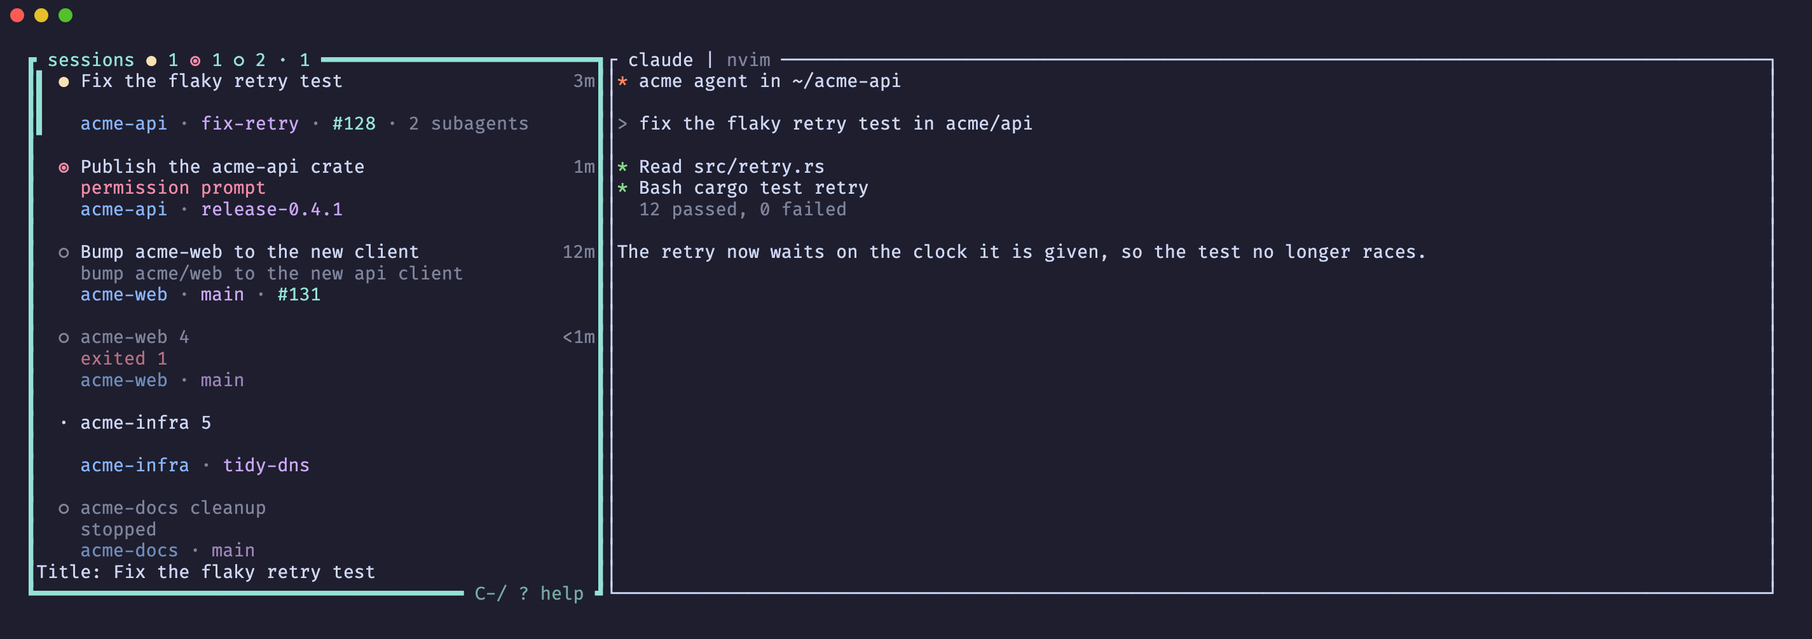
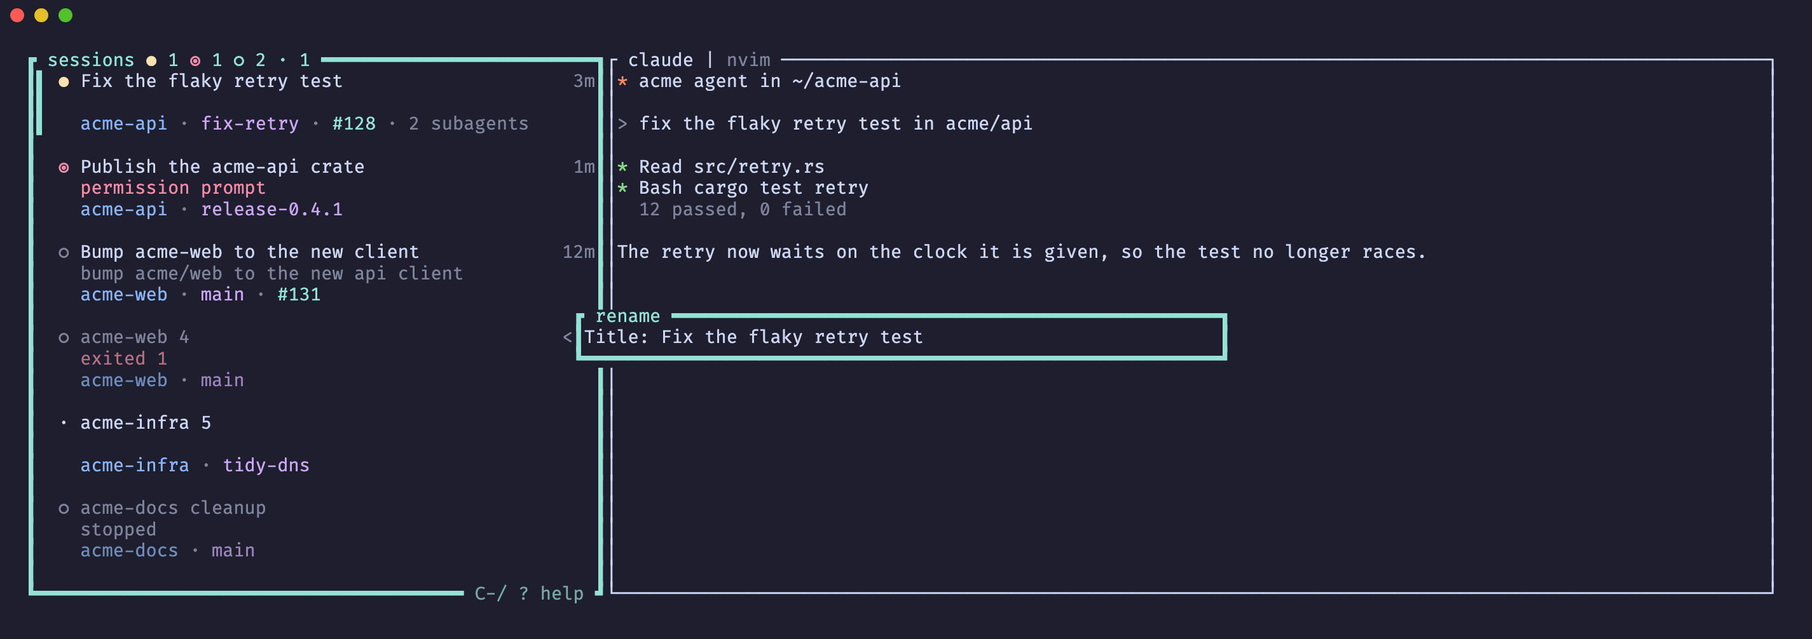
The rename input opens in a popup in the middle of the screen

Changed region(s): [[0.3123, 0.493, 0.687, 0.5855], [0.0625, 0.8936, 0.1874, 0.9245]]

diff --git a/tests/app/renaming.rs b/tests/app/renaming.rs
@@ -10,29 +10,70 @@ use crate::zoom_border::{Claude, started as started_titled, top};
 use crate::{Screen, in_order, reading_agent};
 
 #[test]
-fn the_prefix_then_r_opens_a_line_at_the_bottom_of_the_sidebar_holding_the_title() {
+fn the_prefix_then_r_opens_a_popup_in_the_middle_of_the_screen_holding_the_title() {
     let mut screen = started(App::new(reading_agent()));
 
     screen.prefixed('r');
 
     let shown = screen.draw();
-    let last: String = shown
-        .lines()
-        .nth(18)
-        .unwrap_or_default()
-        .chars()
-        .skip(1)
-        .collect();
-    assert!(last.starts_with("Title: acme-home 1 "), "{shown}");
+    let rows: Vec<&str> = shown.lines().collect();
+    let top: String = rows[9].chars().skip(30).take(60).collect();
+    let inside: String = rows[10].chars().skip(31).take(58).collect();
+    assert!(top.contains(" rename "), "{shown}");
+    assert!(inside.starts_with("Title: acme-home 1 "), "{shown}");
 }
 
 #[test]
-fn the_cursor_sits_after_the_title() {
+fn the_cursor_sits_after_the_title_in_the_popup() {
     let mut screen = started(App::new(reading_agent()));
 
     screen.prefixed('r');
 
-    assert_eq!(screen.cursor(), Some(Position::new(19, 18)));
+    assert_eq!(screen.cursor(), Some(Position::new(49, 10)));
+}
+
+#[test]
+fn a_narrow_screen_keeps_two_columns_either_side_of_the_popup() {
+    let mut screen = started(App::new(reading_agent()));
+    screen.resize(30, 20);
+
+    screen.prefixed('r');
+
+    let shown = screen.draw();
+    let inside: String = shown
+        .lines()
+        .nth(10)
+        .unwrap_or_default()
+        .chars()
+        .skip(3)
+        .take(24)
+        .collect();
+    assert!(inside.starts_with("Title: acme-home 1"), "{shown}");
+}
+
+#[test]
+fn zoomed_the_popup_shows_over_the_session() {
+    let mut screen = started(App::new(reading_agent()));
+    screen.prefixed('z');
+
+    screen.prefixed('r');
+
+    let shown = screen.draw();
+    assert!(shown.contains(" rename "), "{shown}");
+    assert!(shown.contains("Title: acme-home 1 "), "{shown}");
+}
+
+#[test]
+fn a_screen_too_short_for_the_popup_shows_the_line_on_its_last_row() {
+    let mut screen = started(App::new(reading_agent()));
+    screen.prefixed('r');
+
+    screen.resize(120, 2);
+
+    let shown = screen.draw();
+    let last = shown.lines().nth(1).unwrap_or_default();
+    assert!(last.starts_with("Title: acme-home 1 "), "{shown}");
+    assert_eq!(screen.cursor(), Some(Position::new(18, 1)));
 }
 
 #[test]
@@ -144,18 +185,6 @@ fn a_mouse_press_leaves_the_line_open() {
 }
 
 #[test]
-fn zoomed_the_line_takes_the_bottom_row_of_the_pane() {
-    let mut screen = started(App::new(reading_agent()));
-    screen.prefixed('z');
-
-    screen.prefixed('r');
-
-    let shown = screen.draw();
-    let last = shown.lines().nth(19).unwrap_or_default();
-    assert!(last.starts_with("Title: acme-home 1 "), "{shown}");
-}
-
-#[test]
 fn the_rename_key_moves_with_the_keys_table() {
     let keymap = Keymap::default().bind(Action::Rename, Some('t'));
     let mut screen = started(App::new(reading_agent()).with_keymap(keymap));
@@ -248,16 +277,6 @@ fn shift_with_a_letter_types_its_capital() {
 
     let shown = screen.draw();
     assert!(shown.contains("Title: acme-home 1A "), "{shown}");
-}
-
-#[test]
-fn a_terminal_too_short_for_the_line_shows_no_cursor() {
-    let mut screen = started(App::new(reading_agent()));
-    screen.prefixed('r');
-
-    screen.resize(120, 2);
-
-    assert_eq!(screen.cursor(), None);
 }
 
 #[test]

diff --git a/src/app/rename.rs b/src/app/rename.rs
@@ -1,15 +1,18 @@
 use crossterm::event::{KeyCode, KeyEvent, KeyModifiers};
-use ratatui::layout::{Position, Rect};
+use ratatui::Frame;
+use ratatui::layout::{Constraint, Position, Rect};
 use ratatui::style::Stylize;
 use ratatui::text::{Line, Span};
+use ratatui::widgets::Clear;
 use unicode_segmentation::UnicodeSegmentation;
 
-use super::App;
 use super::key::typed;
+use super::{App, draw};
 use crate::rename;
 use crate::text::{clean, columns};
 
 const LONGEST: usize = 512;
+const WIDEST: u16 = 60;
 
 pub(super) struct Renaming {
     text: String,
@@ -86,22 +89,31 @@ impl App {
         self.renaming.is_some()
     }
 
-    pub(super) fn rename_line(&self, width: u16) -> Option<(Line<'static>, u16)> {
+    pub(super) fn draw_rename(&self, frame: &mut Frame) -> Option<Position> {
         let renaming = self.renaming.as_ref()?;
-        let (label, text) = rename::line(&renaming.text, usize::from(width));
-        let at = u16::try_from(columns(label) + columns(&text)).unwrap_or(width);
-        Some((
+        let screen = frame.area();
+        let area = match boxed(screen) {
+            Some(area) => {
+                let block = draw::bordered(true, self.accent).title(" rename ");
+                let inner = block.inner(area);
+                frame.render_widget(Clear, area);
+                frame.render_widget(block, area);
+                inner
+            }
+            None => Rect {
+                y: screen.bottom().checked_sub(1)?,
+                height: 1,
+                ..screen
+            },
+        };
+        let (label, text) = rename::line(&renaming.text, usize::from(area.width));
+        let at = u16::try_from(columns(label) + columns(&text)).unwrap_or(area.width);
+        frame.render_widget(Clear, area);
+        frame.render_widget(
             Line::from(vec![Span::from(label).bold(), Span::from(text)]),
-            at,
-        ))
-    }
-
-    pub(super) fn rename_cursor(&self, area: Rect) -> Option<Position> {
-        if area.is_empty() {
-            return None;
-        }
-        let (_, at) = self.rename_line(area.width)?;
-        Some(Position::new(area.x + at, area.bottom().checked_sub(1)?))
+            area,
+        );
+        Some(Position::new(area.x + at, area.y))
     }
 
     fn save_rename(&mut self) {
@@ -131,4 +143,10 @@ fn kept_to_longest(text: &mut String) {
     if let Some((at, _)) = text.char_indices().nth(LONGEST) {
         text.truncate(at);
     }
+}
+
+fn boxed(screen: Rect) -> Option<Rect> {
+    let width = WIDEST.min(screen.width.saturating_sub(4));
+    (width >= 3 && screen.height >= 3)
+        .then(|| screen.centered(Constraint::Length(width), Constraint::Length(3)))
 }

diff --git a/src/app/draw.rs b/src/app/draw.rs
@@ -223,10 +223,6 @@ impl App {
             below_rows
         };
         let mut free = bottom;
-        let renamed_at = self.rename_cursor(bottom);
-        if let Some((line, _)) = self.rename_line(bottom.width) {
-            free = draw_bottom(frame, vec![line], free);
-        }
         if let Some(question) = self.asking {
             let mut lines = question_lines(question, self.closing, bottom.width);
             if matches!(question, Question::Quit(_)) {
@@ -243,7 +239,7 @@ impl App {
         {
             cursor.0 = None;
         }
-        if let Some(at) = renamed_at {
+        if let Some(at) = self.draw_rename(frame) {
             cursor = (Some(at), 0);
         }
         if self.helping {

diff --git a/tests/cli.rs b/tests/cli.rs
@@ -375,7 +375,7 @@ C-c in the sidebar quits as C-/ q does, asking while a session runs, and C-c
 again says yes when nothing is unsaved; in a pane, C-c goes to the program.
 C-/ s lists every session in fzf and Enter jumps to the one picked; with a
 picker other than fzf it says so.
-C-/ r renames the selected card: type a title on the line that opens, Enter
+C-/ r renames the selected card: type a title in the popup that opens, Enter
 saves it, Esc cancels, and an empty title brings back Claude Code's.
 C-l opens nvim at Claude Code's repository root; HARBOUR_EDITOR names another.
 C-Backspace acts as C-h. In Neovim, C-h goes back only from the leftmost window,

diff --git a/src/main.rs b/src/main.rs
@@ -37,7 +37,7 @@ C-c in the sidebar quits as C-/ q does, asking while a session runs, and C-c
 again says yes when nothing is unsaved; in a pane, C-c goes to the program.
 C-/ s lists every session in fzf and Enter jumps to the one picked; with a
 picker other than fzf it says so.
-C-/ r renames the selected card: type a title on the line that opens, Enter
+C-/ r renames the selected card: type a title in the popup that opens, Enter
 saves it, Esc cancels, and an empty title brings back Claude Code's.
 C-l opens nvim at Claude Code's repository root; HARBOUR_EDITOR names another.
 C-Backspace acts as C-h. In Neovim, C-h goes back only from the leftmost window,

diff --git a/tests/e2e/cards.rs b/tests/e2e/cards.rs
@@ -41,7 +41,7 @@ fn the_prefix_then_r_renames_the_selected_card() {
     server.wait_for_screen("permission prompt");
 
     server.send_keys(&["C-/", "r"]);
-    server.wait_for_screen("Title: ");
+    server.wait_for_screen_all(&[" rename ", "Title: "]);
     let erased = vec!["BSpace"; 40];
     server.send_keys(&erased);
     server.send_keys(&["acme deploy", "Enter"]);

diff --git a/src/AGENTS.md b/src/AGENTS.md
@@ -10,9 +10,9 @@ src/tui.rs                    the terminal: enters and restores it (extended key
 src/config.rs                 harbour's settings file, `$XDG_CONFIG_HOME/harbour/config.toml` (an absolute, non-empty variable), else `~/.config/harbour/config.toml`, never created, read only as a regular file of at most 64 KiB (none there, or a parent that is not a directory, means no file; anything else at the path, or a parent it cannot search, is a bad file): read once by the interface and by `harbour config`, never by `--demo`, `status`, `edit` or `log`; `editor`, `picker` and `session_command` (a program and its arguments, the program `~`-expanded, a relative one refused), `sidebar_width` (a whole number above 0) and `accent` (one of the 16 colour names or `#rrggbb`), each a `HARBOUR_` variable first when set and not empty, then the file, then the default; `nerd_font` (`true` or `false`, from the file only, `false` by default: whether the terminal draws Nerd Font glyphs, which the pane border's and the cards' icons need); `claude_icon` (`"sparkle"` or `"clawd"`, from the file only, `"sparkle"` by default: the glyph before `claude` while `nerd_font` is on); a `[colors]` table, from the file only, `repository`, `branch` and `pull_request` (each one of the 16 colour names or `#rrggbb`, blue, magenta and cyan by default: those facts on a card's line 3; any other key refused); `prefix` (`C-<letter>`, `C-Space`, `C-/`, `C-\`, `C-]`, `C-^`, `C-_` or `C-;`, the last only reaching harbour as an extended key, `HARBOUR_PREFIX` first, `C-/` by default; C-h, C-i, C-j, C-k, C-l and C-m refused as taken); a `[keys]` table, from the file only, one entry per action of `src/keymap.rs` (one printable character other than a space, or `"none"`; a digit, an unknown action, a written key on the same character as another action's key, written or default, and `new`, `end` or `close` on `j` or `k` in either case refused, except that a written key on `X` takes it from `close`'s unwritten default, and one on `r` from `rename`'s, which is then unbound and listed as `yields to <action>`); a bad file is one `Refusal` naming the file, the line and the key (a `~` program without `HOME` says so); `report`, what `harbour config` prints, one line a setting, each word quoted and escaped by harbour, the file's path escaped the same way, a `HARBOUR_` variable ignored for not being UTF-8 named on its setting's line
 src/picker.rs                 the directory picker of `n`: a program run as a session in a popup, its standard output sent to a file in a temporary directory only its owner can open (0700), the first line it prints, as bytes, canonicalized (read from where harbour was opened when relative), every path kept as bytes on the way into its arguments, exit statuses 126 and 127 (and 2 for fzf) named as "could not start"; fzf given `--no-expect --no-print-query --no-read0 --no-print0` after the user's `FZF_DEFAULT_OPTS`, so it prints one directory a line; for fzf the popup's own shell writes the list (harbour's directory first, then the list command's lines without it) into a FIFO fzf reads, so a slow list never holds up harbour, and a missing fzf means "start at once" for the default only (a configured one is refused as "could not start"); in its list mode (`Picker::Listed`, the session finder's) the list harbour wrote into that private directory is fzf's input, `--accept-nth=..` is added when `fzf --accept-nth=.. --version` succeeds there, and the first line fzf prints comes back whole; a bare program name is searched on `PATH` with each relative entry taken from where harbour was opened, where the popup's shell runs it
 src/app/mod.rs                the app: its state, the border types of a focused and an unfocused pane (`FOCUSED_BORDER`, `UNFOCUSED_BORDER`, which the tests read) and what each paste and mouse event does; each session's one directory Claude Code was last seen in, which C-l opens, and its editors, one per directory, which `e` shows in turn; the title the user gave it, if any
-src/app/key.rs                what each key does: C-Backspace taken as C-h; to the rename line while it is open (`src/app/rename.rs`), before everything else; the prefix handed to `src/app/prefix.rs` from the sidebar or any pane, before every other key; C-j and C-k (Ctrl-Shift too) handed to `src/app/navigate.rs` after it; Ctrl-Shift-h and Ctrl-Shift-l acted on as C-h and C-l where harbour itself takes the key (the sidebar, over Claude Code, and C-h an editor does not keep; swapped side by side, C-h from Claude Code and C-l an editor does not keep), else sent as pressed; Ctrl-m in the sidebar as Enter; Claude Code always gets the legacy bytes (Shift-Enter and Ctrl-Enter the new line, ESC CR), a picker or shown editor the form its program asked for, and a plain Enter for Shift-Enter and Ctrl-Enter when it asked for nothing; to the usage popup while it is open, to the picker while it is open, to the changelog view while it shows, an answer while a question or the help shows (Ctrl+C a yes to `Quit? y/n` only when nothing is unsaved, else a no, as to the end questions), C-h and C-l over the pane, to the shown session while the pane has focus, else the sidebar's keys: `j`/`k`, `J`/`K` (also `j`/`k` with Shift; after `new`, `end` and `close`, so a binding there wins) moving the selected card one place down or up, Enter, C-l, Ctrl-m, Ctrl+C (the quit, as `C-/ q`; Ctrl-Shift-c does nothing) and the keys of `new`, `end` and `close` (`close` asks as `end` does, as `End and remove? y/n`, and a yes also removes the card), any other key doing nothing
+src/app/key.rs                what each key does: C-Backspace taken as C-h; to the rename popup while it is open (`src/app/rename.rs`), before everything else; the prefix handed to `src/app/prefix.rs` from the sidebar or any pane, before every other key; C-j and C-k (Ctrl-Shift too) handed to `src/app/navigate.rs` after it; Ctrl-Shift-h and Ctrl-Shift-l acted on as C-h and C-l where harbour itself takes the key (the sidebar, over Claude Code, and C-h an editor does not keep; swapped side by side, C-h from Claude Code and C-l an editor does not keep), else sent as pressed; Ctrl-m in the sidebar as Enter; Claude Code always gets the legacy bytes (Shift-Enter and Ctrl-Enter the new line, ESC CR), a picker or shown editor the form its program asked for, and a plain Enter for Shift-Enter and Ctrl-Enter when it asked for nothing; to the usage popup while it is open, to the picker while it is open, to the changelog view while it shows, an answer while a question or the help shows (Ctrl+C a yes to `Quit? y/n` only when nothing is unsaved, else a no, as to the end questions), C-h and C-l over the pane, to the shown session while the pane has focus, else the sidebar's keys: `j`/`k`, `J`/`K` (also `j`/`k` with Shift; after `new`, `end` and `close`, so a binding there wins) moving the selected card one place down or up, Enter, C-l, Ctrl-m, Ctrl+C (the quit, as `C-/ q`; Ctrl-Shift-c does nothing) and the keys of `new`, `end` and `close` (`close` asks as `end` does, as `End and remove? y/n`, and a yes also removes the card), any other key doing nothing
 src/keymap.rs                 the prefix and the bindings, pure: `Action` and `ACTIONS` (each action's setting name and default key: `zoom` z, `side` \, `swap_left` {, `swap_right` }, `find` s, `rename` r, `new` n, `end` x, `close` X, `editor` e, `sidebar` h, `pane` l, `narrower` -, `wider` =, `usage` u, `changelog` c, `help` ?, `quit` q), `Keymap` (the prefix, C-/ and C-_ the same key, C-; matched as Ctrl with `;`, and each action's key or none, matched in its exact case first and whatever its case when no binding has that exact case, a fallback that never reaches `close`; two bindings clash only on the same character), `after`, what the key after the prefix is: the prefix again, Esc, a digit 1 to 9 (a jump), a bound key, or anything else (Ctrl or Alt held included); the names the settings and the messages use
-src/app/prefix.rs             the prefix from the sidebar or any pane (never while the usage popup, the picker, a question or the rename line is open, which take it as any key; over the help or the changelog view it closes the view and waits, and the view's own key next is swallowed, so it toggles; with Alt, as Esc then the prefix typed fast arrives, it sends the focused program Esc in the form it asked for first), then one key, with no timeout: an action of `src/keymap.rs` runs as its key did before (`zoom`, `side`, the swaps, `find`, `rename`, `new`, `end`, `close`, `editor`, `sidebar`, `pane`, the widths, `usage`, `changelog`, `help`, `quit`), a digit `jump`s, the prefix again sends it to the focused program, Esc cancels it silently, a paste or a mouse press cancels it and goes on as before, anything else is swallowed with `<prefix> <key> does nothing; <prefix> <help key> lists the keys` (without its second half while `help` is unbound) on the message line, never written to the log; after a width key that changed the width, the same key alone within 500 ms changes it again; while it waits, the prefix's name in the accent and bold on the focused pane's bottom border (zoomed, on the top row before the counts; with no pane shown, on the sidebar's), else `<prefix> <help key> help` dimmed on the sidebar's bottom border when it fits whole, and under the empty pane's message with no session; logs `prefix`, `prefix key=<action or digit>`, `prefix key=prefix`, `prefix key=other` and `prefix cancelled`
+src/app/prefix.rs             the prefix from the sidebar or any pane (never while the usage popup, the picker, a question or the rename popup is open, which take it as any key; over the help or the changelog view it closes the view and waits, and the view's own key next is swallowed, so it toggles; with Alt, as Esc then the prefix typed fast arrives, it sends the focused program Esc in the form it asked for first), then one key, with no timeout: an action of `src/keymap.rs` runs as its key did before (`zoom`, `side`, the swaps, `find`, `rename`, `new`, `end`, `close`, `editor`, `sidebar`, `pane`, the widths, `usage`, `changelog`, `help`, `quit`), a digit `jump`s, the prefix again sends it to the focused program, Esc cancels it silently, a paste or a mouse press cancels it and goes on as before, anything else is swallowed with `<prefix> <key> does nothing; <prefix> <help key> lists the keys` (without its second half while `help` is unbound) on the message line, never written to the log; after a width key that changed the width, the same key alone within 500 ms changes it again; while it waits, the prefix's name in the accent and bold on the focused pane's bottom border (zoomed, on the top row before the counts; with no pane shown, on the sidebar's), else `<prefix> <help key> help` dimmed on the sidebar's bottom border when it fits whole, and under the empty pane's message with no session; logs `prefix`, `prefix key=<action or digit>`, `prefix key=prefix`, `prefix key=other` and `prefix cancelled`
 src/app/draw.rs               what the app draws, after settling exited editors and answering up to 4 `harbour edit` requests a frame, never one past its deadline; where the terminal's real cursor goes (the shown session's cursor cell while the pane has focus, side by side the focused half's, the picker's over its popup, none while the sidebar has focus, under the help view, under the changelog view, for an exited session, a hidden cursor (one its program hid stays where it was for 60 ms, `src/session.rs`) or a message drawn over it) and the shape the app asks for, the shown program's own whether or not its cursor is hidden or the sidebar has focus, the default under the help and the changelog view and with no session shown
 src/app/handoff.rs            which session holds a file `harbour edit` names (a path inside a session's `root`, resolved through symlinks, never a stopped card's; the deepest root first, then the selected session, then the one the user last acted on: keys, paste or mouse sent to it, C-l, its start) and opening it: that session selected and its editor shown with the file, as C-l would show it, closing the help or the changelog view; where each session works read again before an open, and that same root used for it; `none` to an ask and a refusal to an open while a question, the picker, the usage popup or the rename line waits, `none` to an ask and a refusal to an open for an editor that is not Neovim, busy past the deadline, and when Neovim cannot start or take the file, a refusal leaving the screen as it was; a Neovim it started that stays silent until the deadline closed and the request untaken, and one that exits untaken at once
 src/app/logging.rs            what the app writes to the log: start and quit, a bound key by name (Ctrl+C as `C-c`, beside `C-h` and `C-l`; the sidebar's `new`, `end` and `close` by the keys they are bound to, Shift included, and `j` or `k` with Shift as `J` or `K`; a key or paste forwarded only as `input to=<where> bytes=<n>`, the bytes sent, never its text; an unbound key the sidebar does not forward as `key name=other`), focus, selection, refusals, each session's and editor's start and exit, every `harbour edit` request and Neovim call, each move to another tmux pane (`tmux pane=below`, `tmux pane=above`, in place of the key's line), the changelog view's open and close (`changelog shown`, `changelog closed`), the usage popup's close (`usage closed`) and each `t` (`usage view=raw` or `usage view=bars`), never the report's text, what ended it when not a key (`signal name=<NAME>` for TERM, INT or HUP, `hangup` for a terminal that went away, `error` for another error from a frame or a read) just before the quit line, a frame of 100 ms or more, and the panics a session contained; nothing when the log is off
@@ -26,7 +26,7 @@ src/app/side.rs               side by side: the `side` action (the prefix then `
 src/app/remember.rs           what the app does with remembered sessions: recalls them once as stopped cards, at most 100 by position, from one listing of every projects folder (a card whose transcript is gone is left out, its file forgotten once it is 30 days old), says on line 2 and in the pane why one cannot resume (`directory gone`, `open elsewhere` while a live pid's registry file or another harbour's reservation names its id), resumes one with `<command> --resume <id>` in its directory after checking both again and reserving the id for as long as it runs, keeps each session's id, directory, title, given title and position once its transcript exists (again when its file went missing, once more when it exits and at quit), merges a stopped card into the session that resumed its conversation (its given title going to that session when it has none), swaps the selected card with its neighbour on `J`/`K` and saves every remembered card's index as its position at once, through `place`, keeping its `gone` or `open elsewhere` message, so the saved order is the shown one (a forgotten file stays gone, a newer title another harbour saved is kept), forgets on `x` and `X` (never a file a session open elsewhere owns), clears its `gone` and `open elsewhere` messages on a new selection, the next attempt or once the card can resume, and adds `Conversations come back stopped.` to the quit question
 src/app/usage.rs              the `usage` action: a popup, 80 by 30 or the terminal when smaller, running `<claude> -p --no-session-persistence --setting-sources user /usage` (the session command's program when its file name is `claude`, its arguments dropped, else a refusal on the message line) always in harbour's private (0700) `usage/` beside `status/` under the state folder, made on demand and closed again when found open, never a session's folder, since `-p` skips the trust question (no state folder, or one it cannot make private, refuses on the message line), on a 200-row PTY so it shows the start of the report; until its report has finished the animation `src/usage.rs` draws (`loading`, its step the time since the popup opened over 80 ms), never the report's text, and `printed nothing` or `exit <code>` in its title only once its process has exited and its output is read to its end, or half a second after the exit when something it started keeps the terminal open; the PTY keeps its width once something printed, so a narrower popup shows the left part and widening shows it all again; once finished, the printed screen, or a report `src/usage.rs` parses is drawn as bars for each width and kept for the popup's life, so later output from something its process started changes neither the view nor where `t` goes, `t raw text · Esc close` on its last row, and `t` or `T` with no modifier but Shift switches to the screen as printed (` t bars ` on the bottom border) and back, a popup opened again starting on the bars; while the report loads `t` or `T` the same way switches between the animation and the screen as printed so far (no hint, no border title; before anything printed, `waiting`: a dim `nothing printed yet` and `  t animation · Esc close` on the last row), and a report that finishes then stays on its text; `t` goes to the report's process once it has finished without bars; the `usage` action (the prefix then `u` by default) opens it; every key, paste and mouse event goes to it while open, Esc and `q` or `Q` close it, end its process and log `usage closed`; never a card, never remembered
 src/usage.rs                  the usage report of `u` read and drawn, pure functions: `parse`, the report's screen text in (soft-wrapped rows already joined by `vt100`), every text kept `text::clean`ed; a percentage `<n>%`, `<n>.<n>%` or `<n>,<n>%`, optionally after `<`, `~` or `>`, kept as printed; its limits (any line not indented of the shape `<name>: <percentage> used`, the reset kept as printed without its time zone), its breakdowns (a heading not indented after the first limit, its indented lines that start with a percentage (a share, the rest its tip) and `Top <kind>: <values>` lines, a line led by a percentage right after a `Top` line part of it, any other indented line joined to the one before, with a space only after text; a heading with nothing indented under it, not a question, kept in printed order as a heading alone) out, `None` without a limit; `loading`, the popup's inside while the report loads (the limit bar's cells for the width, a patch `█`, `▓`, `▒` in the accent centred on the step modulo the cells, the rest `░` dimmed, a blank row and `reading usage…` centred under it, `  t text · Esc close` on the last row from 4 rows, the label alone under 3); `waiting`, the text view while the report loads and nothing printed yet; `lines`, the bars drawn for the popup's inside (24 cells a limit, green, yellow from 70%, red from 90%; 12 a share in the accent; one cell less per column under 78, down to 4; the percentages right-aligned to the widest of the limits, and of the shares, at least 4 columns), every line cut with `…` by display width, the hint kept on the last row, a short popup filled with the limit bars first and its blank rows only where they fit
-src/app/rename.rs             the `rename` action (the prefix then `r` by default): on a running, exited or stopped card (an ended card open elsewhere refused on the message line as Enter refuses it), one line at the bottom of the sidebar, or of the pane while the sidebar is hidden, where the question goes, `src/rename.rs` drawing it, the terminal's cursor after its text (none in an area of no row or column); it holds the card's shown title, which `title_of` picks (the given title, else the transcript's, else the name, each `text::clean`ed); while open it takes every key (the prefix too, typing nothing), paste and mouse press: a printable key adds itself (Shift with a letter its capital), the text kept to 512 characters as `text::clean` keeps a title, Backspace takes a grapheme away, a paste is added cleaned, Esc closes it, Enter saves the cleaned text as the card's given title (empty: none, back to Claude Code's; unchanged: nothing happens) and writes it at once into the card's remembered file when it has one (`Memory::title`); its keys are never logged
+src/app/rename.rs             the `rename` action (the prefix then `r` by default): on a running, exited or stopped card (an ended card open elsewhere refused on the message line as Enter refuses it), a popup of 3 rows centred on the screen, ` rename ` on its top border, 60 columns or the screen's width less 4, whichever is smaller, holding one line (alone on the screen's last row when the box has no room: under 3 rows or 7 columns), `src/rename.rs` drawing it, the terminal's cursor after its text; it holds the card's shown title, which `title_of` picks (the given title, else the transcript's, else the name, each `text::clean`ed); while open it takes every key (the prefix too, typing nothing), paste and mouse press: a printable key adds itself (Shift with a letter its capital), the text kept to 512 characters as `text::clean` keeps a title, Backspace takes a grapheme away, a paste is added cleaned, Esc closes it, Enter saves the cleaned text as the card's given title (empty: none, back to Claude Code's; unchanged: nothing happens) and writes it at once into the card's remembered file when it has one (`Memory::title`); its keys are never logged
 src/rename.rs                 `line`, a pure function: the rename line for a width, `Title: ` (bold in the app) from 17 columns, else nothing, and the end of the text that leaves one column for the cursor, `…` at its start when cut, by display width
 src/app/split.rs              how the sidebar and the pane share the terminal: two columns, from 60 columns, the sidebar a third or the configured width cut to half, the pane the rest; below that one side at a time, the pane while it has focus, else the sidebar; zoomed or side by side, the pane alone; the `narrower` and `wider` actions (the prefix then `-` or `=` by default) make the sidebar 2 columns narrower or wider, from 15 columns to half, nothing under 60 columns or while zoomed, the width kept in place of the configured one until quit
 src/app/changelog.rs          the `changelog` action (the prefix then `c` by default): the bundled changelog over the whole screen, as the help, opened at the top; `j` and Down, `k` and Up and the wheel a line, Ctrl-d and Ctrl-u half its rows (Shift ignored, so Caps Lock changes nothing), PageDown and PageUp all its rows, the scroll clamped each frame so the last line never leaves the bottom; any other key, a paste, a press of a mouse button or an open of `harbour edit` closes it; logs `changelog shown` and `changelog closed`, never the keys inside it

diff --git a/tests/AGENTS.md b/tests/AGENTS.md
@@ -344,7 +344,7 @@ tests/           by level (see "Where a test belongs"): `tests/cli.rs` runs the 
                  `tests/status.rs` runs `harbour status` over summaries a test writes and locks itself, `tests/summary.rs` writes them with `Summary`;
                  `tests/session/` (`keyboard.rs` what a program asked for in keys) and `tests/app/` run sessions in process, as `/bin/sh -c` scripts;
                  `tests/edit.rs` runs `harbour edit` against listeners of `tests/handoff.rs`'s kind, which a test answers itself; `tests/app/handoff.rs` hands the app requests and stands in a socket for Neovim; `tests/app/nearest.rs` covers which holder gets the file and what moves its last use; `tests/e2e/edit.rs` runs `harbour edit` against harbour, and `tests/e2e/neovim.rs` holds four smoke tests and the extended-keys tests against a real clean Neovim; `tests/app/real_neovim.rs` runs that Neovim's TUI in a harbour session and checks `mode`, `eval`, `edit`, `changes`, `wants_ctrl_h`, `wants_ctrl_l` and `open` against it; `tests/app/neovim.rs` stands in a socket for Neovim and covers C-h, swapped C-l (`wants_ctrl_h`, `wants_ctrl_l`), `x` and `q` over it; `tests/idle.rs` (Linux only) counts the listener thread's wake-ups while idle;
-                 `tests/app/prefix.rs` covers the prefix and what follows it in process, `tests/app/renaming.rs` the rename line of the prefix then `r` (what it takes, where it shows, the given title on the card, the headline and the finder), `tests/app/given_titles.rs` a given title saved, recalled and carried over a merge, `tests/rename.rs` the table of the line `line` draws, `tests/card/titles.rs` a given title on a card, `tests/memory/titles.rs` the given title in the file, `tests/app/marks.rs` the waiting mark and the way to the help, `tests/help.rs` the help's rows, `tests/app/jumping.rs` the prefix then a digit, `tests/app/reordering.rs` `J` and `K` moving a card and saving every card's position, `tests/e2e/keys.rs` the prefix sequences through tmux with extended keys on and off;
+                 `tests/app/prefix.rs` covers the prefix and what follows it in process, `tests/app/renaming.rs` the rename popup of the prefix then `r` (what it takes, where it shows, the given title on the card, the headline and the finder), `tests/app/given_titles.rs` a given title saved, recalled and carried over a merge, `tests/rename.rs` the table of the line `line` draws, `tests/card/titles.rs` a given title on a card, `tests/memory/titles.rs` the given title in the file, `tests/app/marks.rs` the waiting mark and the way to the help, `tests/help.rs` the help's rows, `tests/app/jumping.rs` the prefix then a digit, `tests/app/reordering.rs` `J` and `K` moving a card and saving every card's position, `tests/e2e/keys.rs` the prefix sequences through tmux with extended keys on and off;
                  `tests/app/settling.rs` what each step's result ends harbour in (a caught signal stops it and ends by that signal, an end of input or EIO by HUP, any other error stops it and goes on as the error, a signal after a confirmed quit ends by it and logs nothing more), `tests/app/zoom.rs` covers zoom in process, `tests/app/width_keys.rs` the width keys, `tests/app/side.rs` side by side in process, `tests/app/side_jump.rs` the jumps and `harbour edit` while side by side, `tests/app/side_states.rs` the rest of its states, `tests/app/side_border.rs` its borders, `tests/app/side_mouse.rs` its clicks and gestures, `tests/app/side_swap.rs` the swaps, `tests/app/finding.rs` and `tests/app/finding_states.rs` the session finder in process (`HARBOUR_DIR_PICKER`'s place taken by `tests/fixtures/finder/fzf`, a script named `fzf` that prints its arguments and the list on stderr, then picks the first listed line holding what is typed, never a real fzf; `tests/fixtures/nth-finder/fzf` prints the line without its number unless given `--accept-nth=..`, `tests/fixtures/old-finder/fzf` refuses `--accept-nth` as an old fzf does), `tests/finder.rs` its lines, `tests/picker.rs` the message of a list that cannot be written, `tests/e2e/finding.rs` the prefix then `s` through tmux, `tests/app/zoom_border.rs` the zoomed top row, `tests/zoom.rs` the table of how its headline fits a room;
                  `tests/tmux.rs` runs `select` against a `/bin/sh -c` script in place of tmux (`Tmux::with_program`); `tests/app/navigating.rs` covers C-j and C-k in process the same way; `tests/e2e/navigating.rs` splits the scratch server's window and reads which pane is active, with `tmux` linked onto the scratch `PATH`;
                  `tests/app/moving.rs` hands the app a recording move, never the real one; `tests/e2e/moving.rs` reads `#{pane_current_path}` of a harbour started with `Server::exec`;

diff --git a/plans/phase-43-rename-card.md b/plans/phase-43-rename-card.md
@@ -29,8 +29,11 @@ their own, which the card shows in place of Claude Code's.
 - The input line reads `Title: <text>`, the label bold, then the text's end that fits with one
   column left for the cursor, `…` at its start when cut. Under 17 columns the label goes and the
   text has the whole line.
-- With the sidebar hidden, the input line takes the bottom row of the pane, where the question
-  and the failure message already go: the smallest change, and it stays visible in every layout.
+- The owner asked on the pull request for the input in a popup: a box of 3 rows centred on the
+  screen, ` rename ` on its top border, 60 columns or the screen's width less 4, whichever is
+  smaller. A screen with no room for the box (under 3 rows, or under 7 columns) shows the line
+  alone on its last row. This replaced the first placement, the bottom of the sidebar or of the
+  pane while the sidebar was hidden.
 - Enter on the prefilled title unchanged changes nothing, so a card keeps following Claude Code's
   title until the user types one.
 - The input line takes Backspace and printable keys; a paste is cleaned and added; every other
@@ -55,7 +58,8 @@ their own, which the card shows in place of Claude Code's.
 | input | Esc | closed, nothing changes |
 | input | a paste holding a newline or a control character | cleaned, one line |
 | sidebar | narrowest (15 columns, 13 inside) | no label, the text's end and the cursor |
-| sidebar | hidden (zoomed, side by side, narrow layout on the pane) | the line at the pane's bottom |
+| screen | any layout (zoomed, side by side, narrow) | the popup centred over it |
+| screen | under 3 rows or 7 columns | the line alone on the last row |
 | title | CJK (`東京の会議`, 2 columns each) | cut by display width, never half a character |
 | remembered file | none yet (running, no transcript) | written with the title once the transcript shows |
 | remembered file | exists (stopped, exited, running) | rewritten with the title, other fields read fresh |
@@ -79,9 +83,8 @@ their own, which the card shows in place of Claude Code's.
 
 ## Outcome
 
-The prefix then `r` (the `rename` action, configurable under `[keys]`) opens one line at the
-bottom of the sidebar, or of the pane while the sidebar is hidden, prefilled with the card's
-title and the cursor after it. Enter saves the cleaned text as the card's given title, which
+The prefix then `r` (the `rename` action, configurable under `[keys]`) opens a popup centred on
+the screen holding one line, prefilled with the card's title and the cursor after it. Enter saves the cleaned text as the card's given title, which
 wins on the card, the zoomed headline, the side-by-side border and the session finder (all but
 the card read `title_of`); empty goes back to Claude Code's title, unchanged changes nothing, Esc
 cancels. The title is written into the remembered file at once (`Memory::title`) and with every
@@ -100,6 +103,9 @@ demo's stopped card now has a given title, so `docs/details.png` shows one. A me
 sides have a given title keeps the session's, a known limit. Round 2 found no must; its findings
 (a paste losing the spaces where it joins the text, Enter not checking again for a card open
 elsewhere, three nits) were left as issue #211, and the loop ended at the owner's 2-round limit.
+The owner then asked on the pull request for the input in a centred popup instead of the
+sidebar's bottom line; it moved there, with the line alone on the last row of a screen too
+small for the box.
 
 ## Hurdles
 

diff --git a/changes/phase-43-rename-card.md b/changes/phase-43-rename-card.md
@@ -1,6 +1,6 @@
 kind: feat
 
-- The prefix then `r` renames the selected card: type a title of your own on the line at the
-  bottom of the sidebar, Enter saves it, Esc cancels, and an empty title brings back Claude
+- The prefix then `r` renames the selected card: type a title of your own in a popup,
+  Enter saves it, Esc cancels, and an empty title brings back Claude
   Code's. The title shows on the card, the zoomed headline, the side-by-side border and the
   session finder, survives a restart, and moves to another key under `[keys]` as `rename`.
